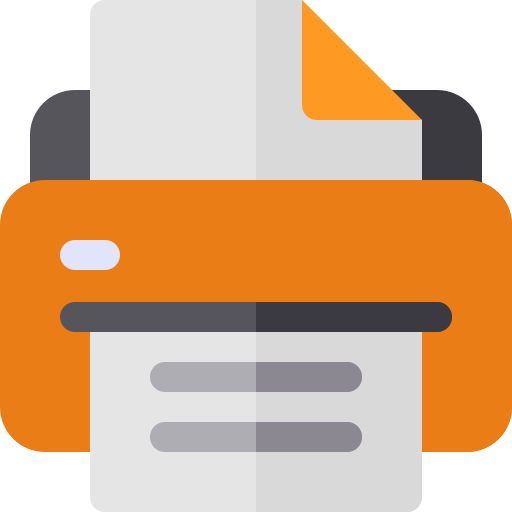
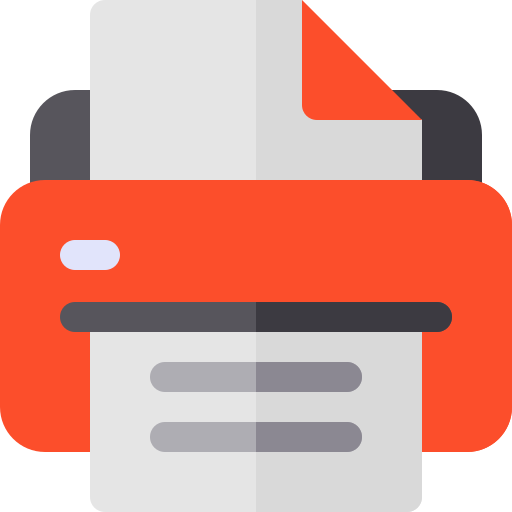
fix styling

diff --git a/app/static/styles/superUser.css b/app/static/styles/superUser.css
@@ -34,7 +34,7 @@ nav a {
 }
 
 aside {
-  width: 20%;
+  width: 15%;
   border-right: 1px solid rgb(172, 172, 172);
   height: 100vh;
 }
@@ -80,35 +80,32 @@ button {
   margin-bottom: 20px;
 }
 
-aside h3 {
-  text-align: left;
-  padding: 20px 30px;
-  font-weight: bold;
-  font-size: 16;
+aside h5 {
+  text-align: center;
 }
 
-h5 {
-  text-align: right;
-  position: absolute;
-  top: 80px;
-  right: 20px;
+
+.page-container {
+  position: relative;
+  min-height: 100vh;
 }
+
+
+
 
 .footer-p {
-  position: absolute;
-  right: 20px;
   text-align: right;
   color: #000;
+  font-weight: 400;
   margin-right: 20px;
 }
 
 .footer {
-  align-items: center;
-  justify-content: center;
-  position: absolute;
-  display: flex;
+  margin-top: 30px;
+  position: relative;
+  display: block;
   width: 100%;
-  height: 50px;
+  height: 30px;
   bottom: 0;
   background-color: #ffffff;
 }
@@ -171,3 +168,70 @@ h2 {
 .dropdown:hover .username {
   color: #ffffff;
 }
+
+.img img {
+  width: 150px;
+  margin: 0 auto;
+  display: block;
+}
+
+.links {
+  display: block;
+}
+
+.links a {
+  display: block;
+  padding: 10px;
+  text-decoration: none;
+  margin-left: 20px;
+  color: #000;
+  margin-top: 30px;
+  width: 80%;
+}
+
+.links a:active {
+  border-left: 2px #fc4e2b solid;
+}
+
+.links a:hover {
+  background-color: #fc4e2b;
+  color: #fff;
+  border-top-right-radius: 20px;
+  border-bottom-right-radius: 20px;
+}
+
+.d-flex {
+  display: flex;
+}
+
+.space-between {
+  justify-content: space-between;
+}
+
+.card {
+  display: flex;
+  flex-direction: column;
+  align-items: center;
+  width: 100%;
+  margin: 20px;
+  background-color: #fff;
+  padding: 1px;
+  border-radius: 5px;
+  box-shadow: 1px 1px 5px 2px #eee;
+}
+
+.card-body {
+  display: block;
+}
+
+.card-body p  {
+  font-size: 30px;
+  text-align: center;
+  font-weight: 400;
+}
+
+.title {
+  text-align: center;
+  font-size: 16px !important;
+}
+

diff --git a/app/static/styles/report.css b/app/static/styles/report.css
@@ -146,7 +146,7 @@ p {
 
 
 .container {
-  margin: 50px auto 0 auto;
+  margin: 10px auto 0 auto;
   width: 70%;
   height: 80%;
   background-color: #fff;
@@ -168,14 +168,12 @@ p {
 
 .footer-p {
   text-align: right;
-  margin-right: 20px;
-  color: #fc4e2b;
-  font-weight: 600;
+    color: #000;
+    margin-right: 10px;
 }
 
 .footer {
   position: absolute;
   width: 100%;
   bottom: 0;
-  background-color: #ffffff;
 }

diff --git a/app/static/styles/signup.css b/app/static/styles/signup.css
@@ -126,14 +126,13 @@ img {
 
 .footer-p {
   text-align: right;
-  margin-right: 20px;
-  color: #fc4e2b;
-  font-weight: 600;
+    color: #000;
+    margin-right: 20px;
 }
 
 .footer {
   align-items: center;
-  justify-content: center;
+  justify-content: flex-end;
   position: absolute;
   display: flex;
   width: 100%;

diff --git a/app/static/styles/profile.css b/app/static/styles/profile.css
@@ -204,9 +204,8 @@ select {
 
 .footer-p {
   text-align: right;
-  margin-right: 20px;
-  color: #fc4e2b;
-  font-weight: 600;
+    color: #000;
+    margin-right: 20px;
 }
 
 .footer {

diff --git a/app/static/styles/token.css b/app/static/styles/token.css
@@ -121,9 +121,8 @@ nav {
 
 .footer-p {
     text-align: right;
+    color: #000;
     margin-right: 20px;
-    color: #fc4e2b;
-    font-weight: 600;
 }
 
 .footer {

diff --git a/app/static/styles/signin.css b/app/static/styles/signin.css
@@ -66,8 +66,8 @@ input {
 }
 
 .footer p {
-    font-size: 0.7em;
     text-align: right;
+    color: #000;
     margin-right: 20px;
 }
 

diff --git a/app/routes.py b/app/routes.py
@@ -82,3 +82,7 @@ def token():
 @app.route('/admin')
 def admin():
     return render_template('admin.html')
+
+@app.route('/manager')
+def manager():
+    return render_template('manager.html')
